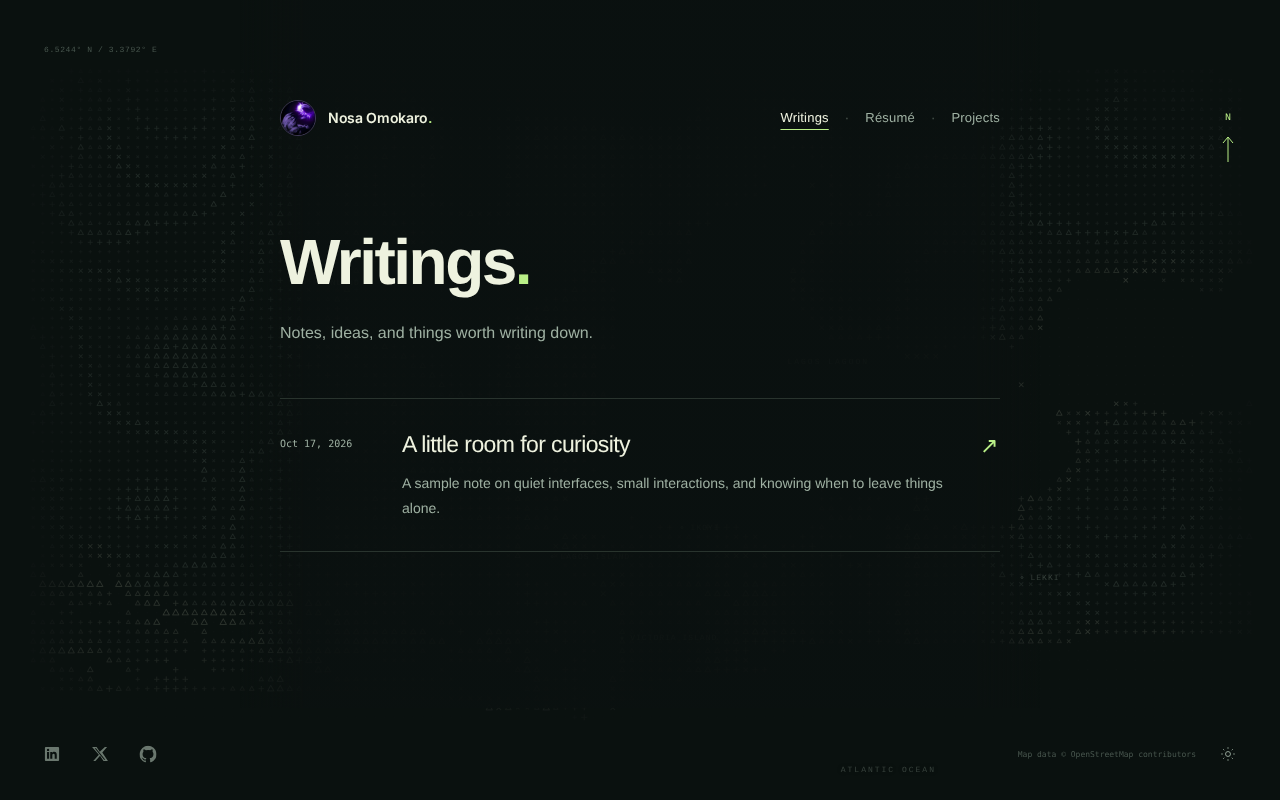
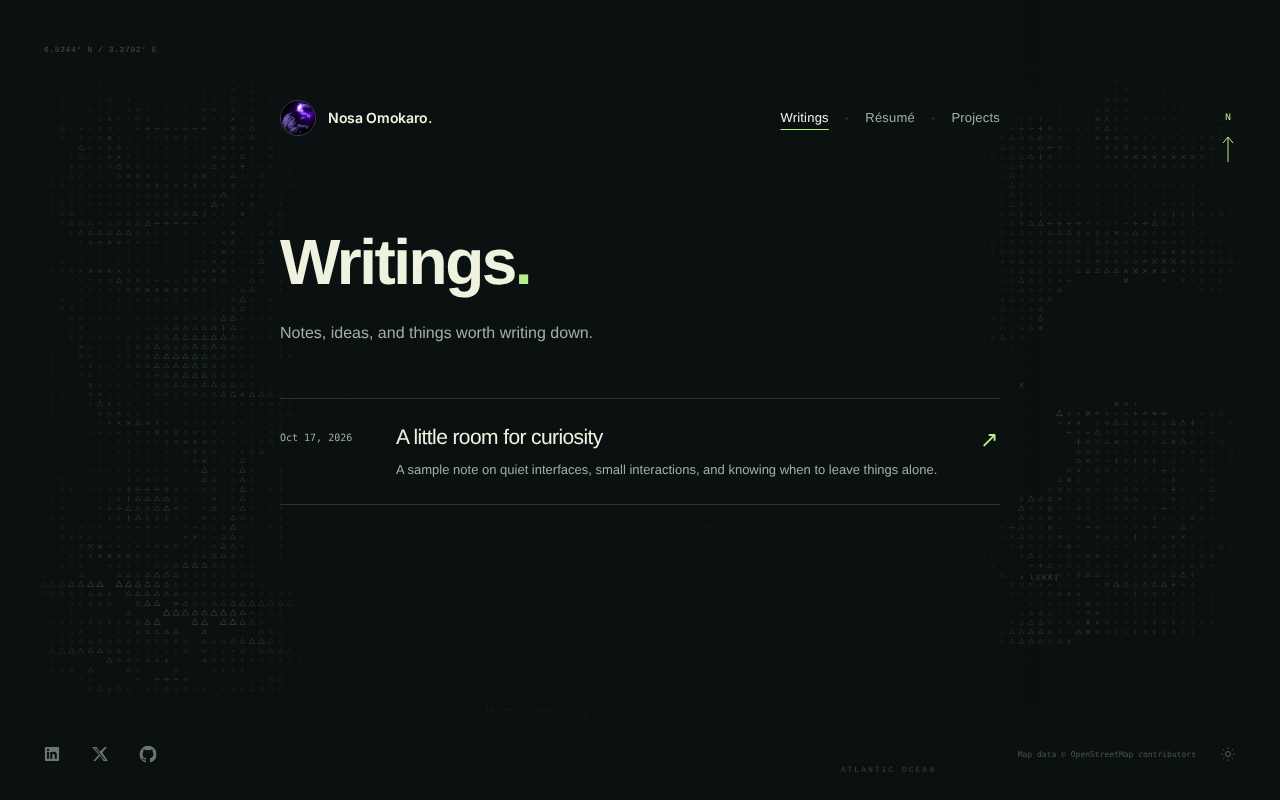
Tighten homepage spacing and compact text-only writing rows

Changed region(s): [[0.3125, 0.5312, 0.75, 0.6562], [0.2188, 0.5312, 0.2812, 0.5625], [0.75, 0.5312, 0.7812, 0.5625]]

diff --git a/src/styles/content.css b/src/styles/content.css
@@ -20,6 +20,10 @@
 .entry-meta { display: flex; flex-direction: column; gap: 10px; padding-top: 6px; font: 10px/1.6 'SFMono-Regular', Consolas, monospace; color: var(--muted); }
 .entry-copy h2 { font-size: 23px; line-height: 1.3; letter-spacing: -.6px; margin: 0 0 12px; font-weight: 500; transition: color .2s; }
 .entry-copy p { margin: 0; font-size: 14px; line-height: 1.8; color: var(--muted); }
+.writing-entry { padding: 24px 0; gap: 16px; }
+.writing-entry .entry-copy h2 { font-size: 21px; margin-bottom: 8px; }
+.writing-entry .entry-copy p { font-size: 13px; line-height: 1.7; }
+.writing-entry .tags { margin-top: 12px; }
 .tags { display: flex; flex-wrap: wrap; gap: 8px 16px; margin-top: 20px; font: 10px/1.6 'SFMono-Regular', Consolas, monospace; color: var(--muted); }
 .entry-arrow { color: var(--accent); font-size: 22px; transition: transform .2s; }
 .entry-link:hover .entry-arrow { transform: translate(3px, -3px); }
@@ -70,5 +74,11 @@
   .project-entry .entry-arrow { font-size: 18px; line-height: 1.35; }
   .entry-meta { grid-column: 1 / -1; flex-direction: row; gap: 18px; }
   .entry-copy h2 { font-size: 21px; }
+  .writing-entry { grid-template-columns: minmax(0, 1fr) 16px; padding: 20px 0; gap: 8px 12px; }
+  .writing-entry .entry-meta { grid-column: 1; grid-row: 1; padding-top: 0; }
+  .writing-entry .entry-copy { grid-column: 1; grid-row: 2; }
+  .writing-entry .entry-copy h2 { font-size: 18px; line-height: 1.35; }
+  .writing-entry .entry-copy p { font-size: 12px; line-height: 1.65; }
+  .writing-entry .entry-arrow { grid-column: 2; grid-row: 2; font-size: 18px; line-height: 1.35; }
 }
 @media (prefers-reduced-motion: reduce) { .entry-arrow, .entry-copy h2 { transition: none; } }
